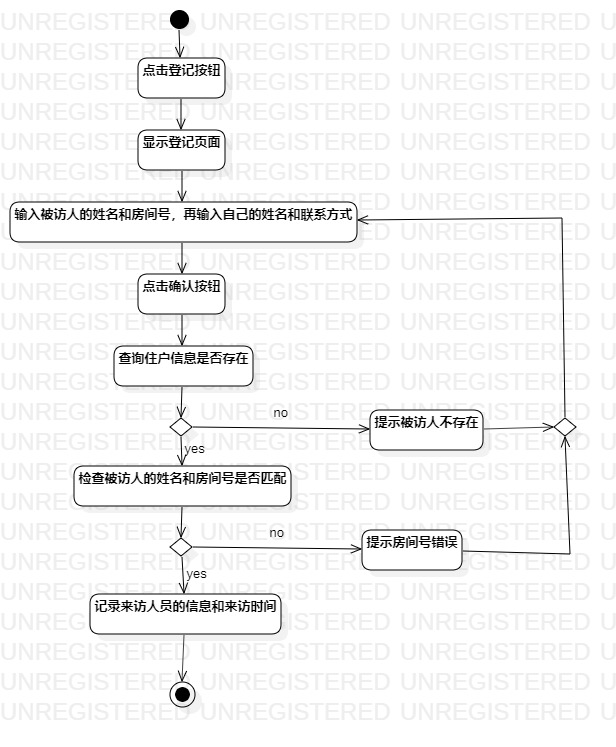
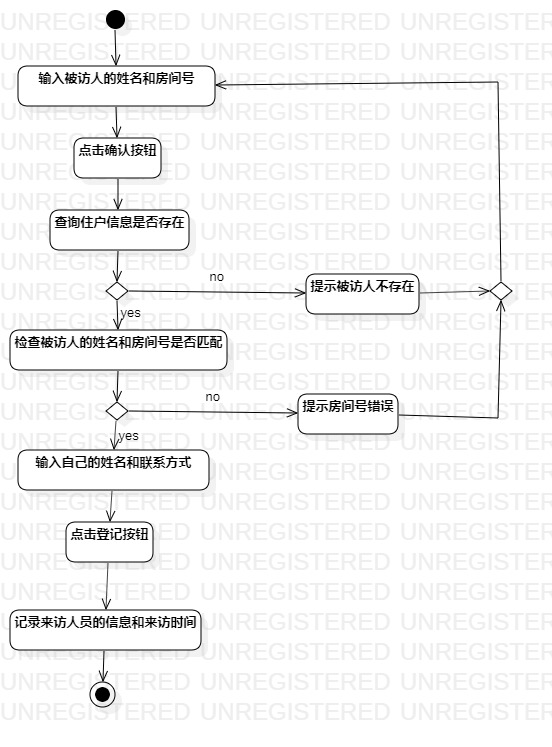
修改之前的用例活动图

diff --git a/students/1709081602231/lab2.md b/students/1709081602231/lab2.md
@@ -23,14 +23,14 @@
 | 用例编号 | UC01                                                         | 备注                 |
 | -------- | :----------------------------------------------------------- | -------------------- |
 | 用例名称 | 登记                                                         |                      |
-| 前置条件 |                                                              | *可选*               |
+| 前置条件 | 来访人员进入登记页面                                         | *可选*               |
 | 后置条件 |                                                              | *可选*               |
-| 基本流程 | 1.来访人员点击登记按钮；                                     | *用例执行成功的步骤* |
-| ~        | 2.系统显示登记页面；                                         |                      |
-| ~        | 3.来访人员输入被访人的姓名和房间号，再输入自己的姓名和联系方式，点击确认按钮； |                      |
-| ~        | 4.系统查询到住户信息，检查被访人的姓名和房间号相匹配，记录来访人员的信息和来访时间； |                      |
-| 扩展流程 | 4.1系统检查发现被访人不存在，**提示“被访人不存在”**；        | *用例执行失败*       |
-| ~        | 4.2系统检查发现被访人的姓名和房间号不匹配，**提示“房间号错误”**。 |                      |
+| 基本流程 | 1.来访人员输入被访人的姓名和房间号，点击确认按钮；           | *用例执行成功的步骤* |
+| ~        | 2.系统查询到住户信息，检查被访人的姓名和房间号相匹配；       |                      |
+| ~        | 3.来访人员输入自己的姓名和联系方式，点击登记按钮；           |                      |
+| ~        | 4.系统记录来访人员的信息和来访时间。                         |                      |
+| 扩展流程 | 2.1系统检查发现被访人不存在，**提示“被访人不存在”**；        | *用例执行失败*       |
+| ~        | 2.2系统检查发现被访人的姓名和房间号不匹配，**提示“房间号错误”**。 |                      |
 
 
 
@@ -39,11 +39,9 @@
 | 用例编号 | UC02                                                         | 备注                 |
 | -------- | :----------------------------------------------------------- | -------------------- |
 | 用例名称 | 查询来访记录                                                 |                      |
-| 前置条件 | 管理员已登录                                                 | *可选*               |
+| 前置条件 | 管理员进入来访记录页面                                       | *可选*               |
 | 后置条件 |                                                              | *可选*               |
-| 基本流程 | 1.管理员点击来访记录按钮；                                   | *用例执行成功的步骤* |
-| ~        | 2.系统显示来访记录页面；                                     |                      |
-| ~        | 3.管理员输入来访人员的姓名和来访时间，点击查询按钮；         |                      |
-| ~        | 4.系统检查来访人员的姓名不为空，查询来访人员信息；         |                      |
-| ~        | 5.系统显示来访人员来访记录。         |                      |
-| 扩展流程 | 4.1系统检查来访人员的姓名为空，**提示“来访人员的姓名不能为空”**；    | *用例执行失败*       |
+| 基本流程 | 1.管理员输入来访人员的姓名，点击查询按钮；                   | *用例执行成功的步骤* |
+| ~        | 2.系统检查来访人员的姓名不为空，查询来访人员信息；           |                      |
+| ~        | 3.系统显示来访人员来访记录。                                 |                      |
+| 扩展流程 | 2.1系统检查来访人员的姓名为空，**提示“来访人员的姓名不能为空”**； | *用例执行失败*       |
